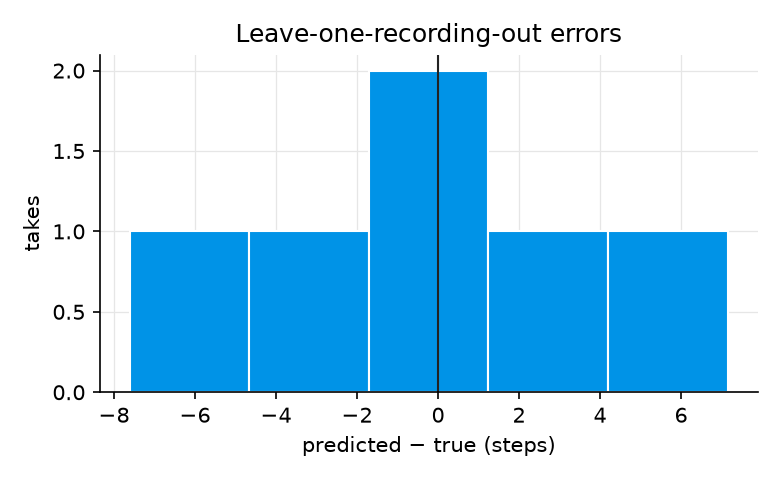
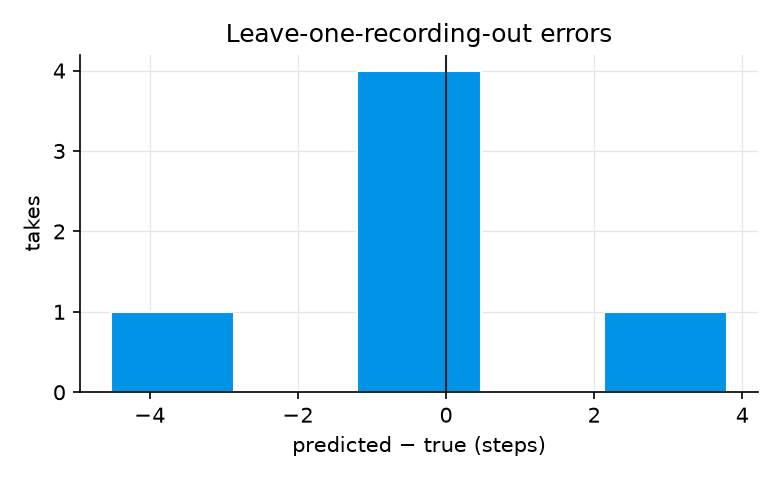
P6-Gait-Wearable: StepNet retrained with guided zero segments (held-out walk MAE 2.1 steps, pm 48 % from one 7-step take)

diff --git a/P6-Gait-Wearable/docs/steps_results.md b/P6-Gait-Wearable/docs/steps_results.md
@@ -1,31 +1,31 @@
 # Step counter results
 
-Generated by `train/steps.py --report` on 2026-11-01 15:06 from 6 counted takes.
+Generated by `train/steps.py --report` on 2026-11-01 15:28 from 6 counted takes and 4 zero segments from guided sessions (the zero segments in every training fold, never held out).
 
 ## Leave-one-recording-out
 
 | metric | value |
 |---|---|
 | takes | 6 |
-| mean absolute error | 3.16 steps |
-| mean absolute percentage error | 20.6 % |
-| bias (predicted − true) | +0.03 steps |
-| 95 % bootstrap interval of the mean % error | -15.1 % to +26.1 % |
-| 95th percentile of the absolute % error (shown live as ±) | 27.9 % |
-| seed-to-seed spread of a prediction (5 fits) | 0.56 steps |
+| mean absolute error | 1.49 steps |
+| mean absolute percentage error | 17.2 % |
+| bias (predicted − true) | -0.08 steps |
+| 95 % bootstrap interval of the mean % error | -10.6 % to +40.5 % |
+| 95th percentile of the absolute % error (shown live as ±) | 48.1 % |
+| seed-to-seed spread of a prediction (5 fits) | 0.72 steps |
 
 | activity | takes | MAE (steps) | bias (steps) |
 |---|---|---|---|
-| STAND | 2 | 0.21 | +0.21 |
-| WALK | 4 | 4.63 | -0.06 |
+| STAND | 2 | 0.19 | +0.19 |
+| WALK | 4 | 2.13 | -0.21 |
 
 | take | activity | true | predicted | error |
 |---|---|---|---|---|
-| 20261101-194004-steps-walk-n30-RafaeTest1.csv | WALK | 30 | 37.1 | +7.1 |
-| 20261101-194200-steps-walk-n32-RafaeTest2.csv | WALK | 32 | 30.2 | -1.8 |
-| 20261101-200213-steps-stand-n0-StandTest.csv | STAND | 0 | 0.2 | +0.2 |
-| 20261101-200235-steps-stand-n0-StandTest2.csv | STAND | 0 | 0.2 | +0.2 |
-| 20261101-200304-steps-walk-n31-Walk1.csv | WALK | 31 | 23.4 | -7.6 |
-| 20261101-200333-steps-walk-n7-Walk2.csv | WALK | 7 | 9.0 | +2.0 |
+| 20261101-194004-steps-walk-n30-RafaeTest1.csv | WALK | 30 | 30.1 | +0.1 |
+| 20261101-194200-steps-walk-n32-RafaeTest2.csv | WALK | 32 | 27.5 | -4.5 |
+| 20261101-200213-steps-stand-n0-StandTest.csv | STAND | 0 | 0.1 | +0.1 |
+| 20261101-200235-steps-stand-n0-StandTest2.csv | STAND | 0 | 0.3 | +0.3 |
+| 20261101-200304-steps-walk-n31-Walk1.csv | WALK | 31 | 30.8 | -0.2 |
+| 20261101-200333-steps-walk-n7-Walk2.csv | WALK | 7 | 10.8 | +3.8 |
 
-Final fit: 400 epochs, last-epoch loss 0.398.
+Final fit: 400 epochs, last-epoch loss 0.137.
